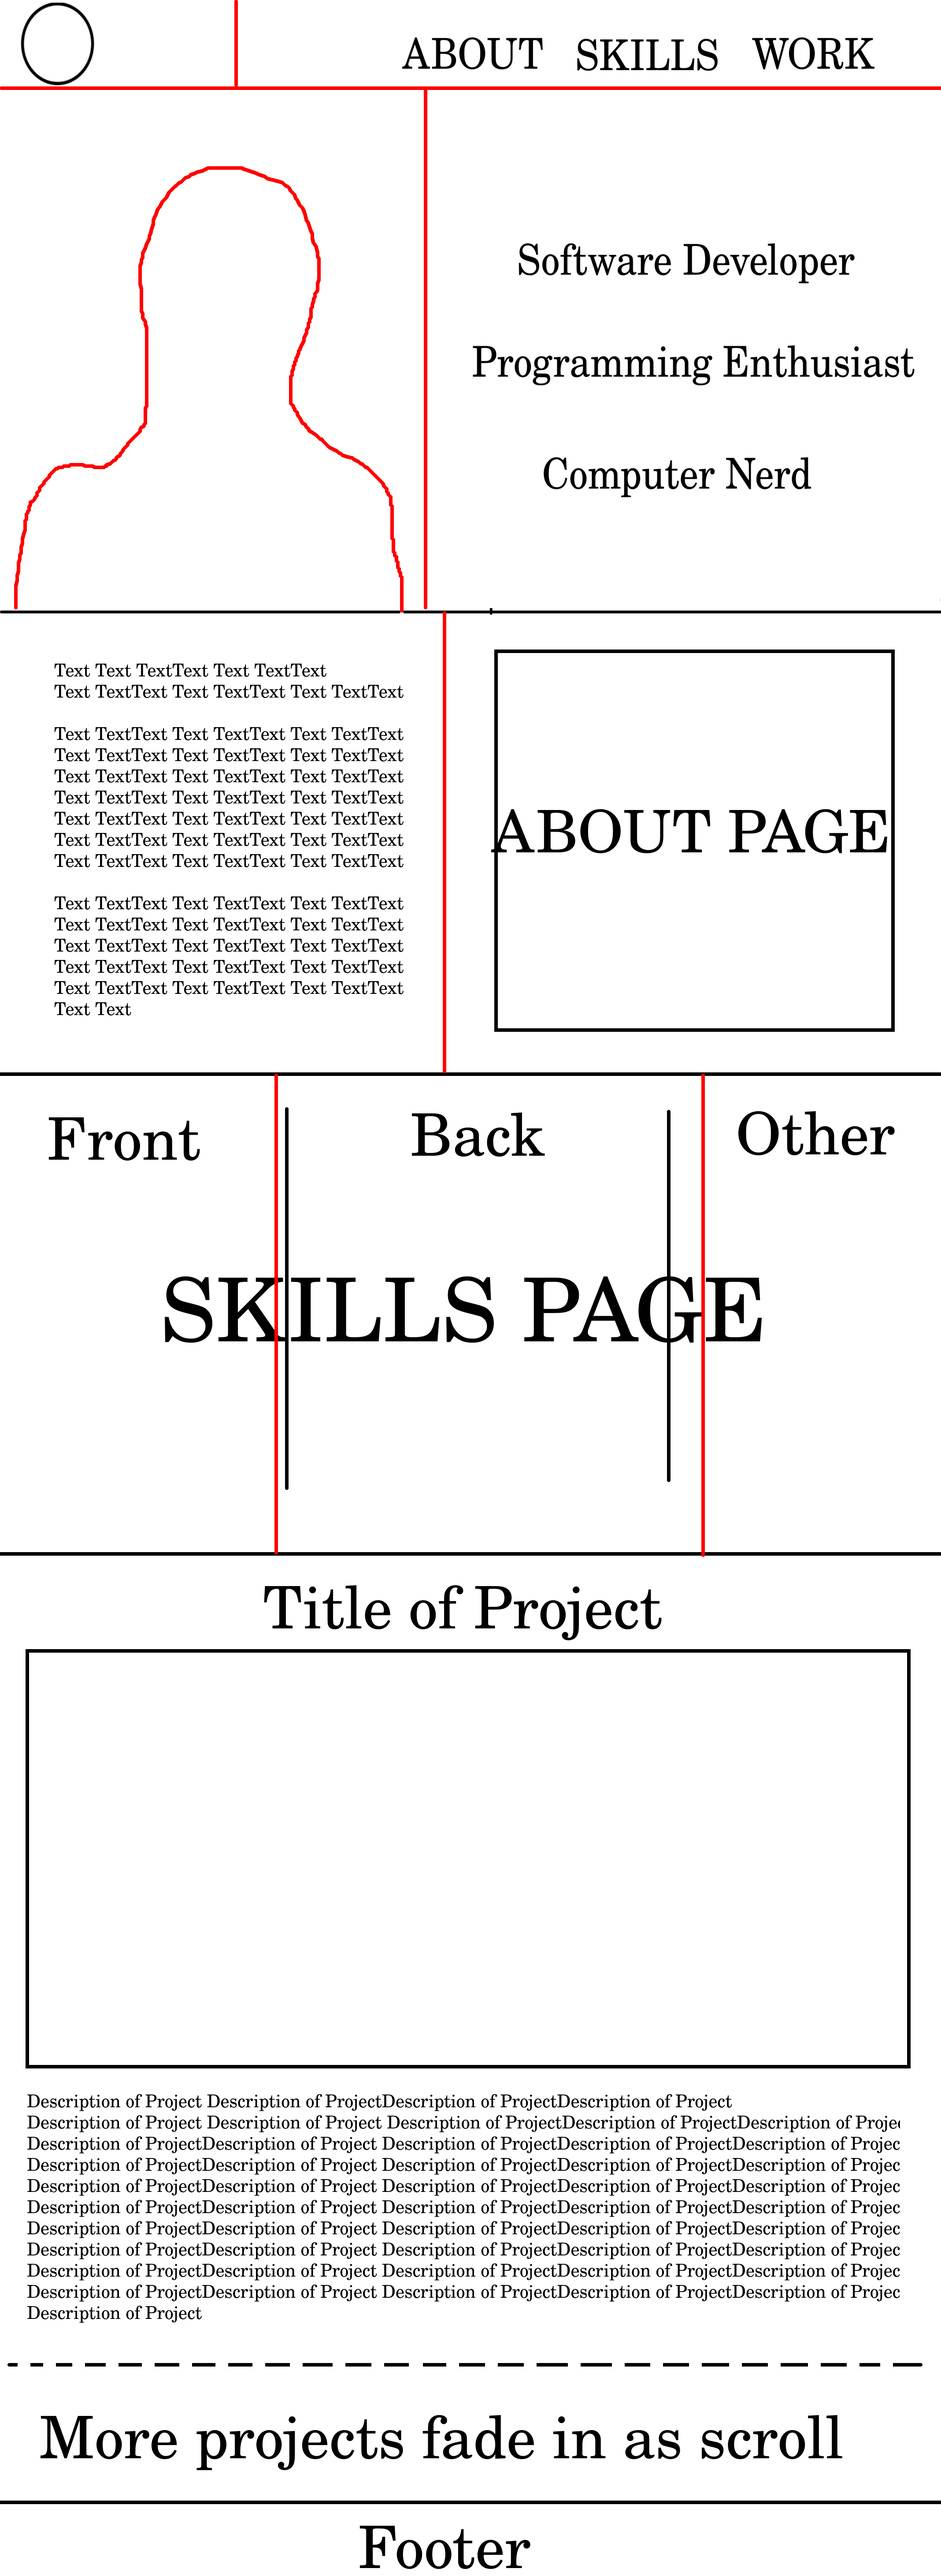
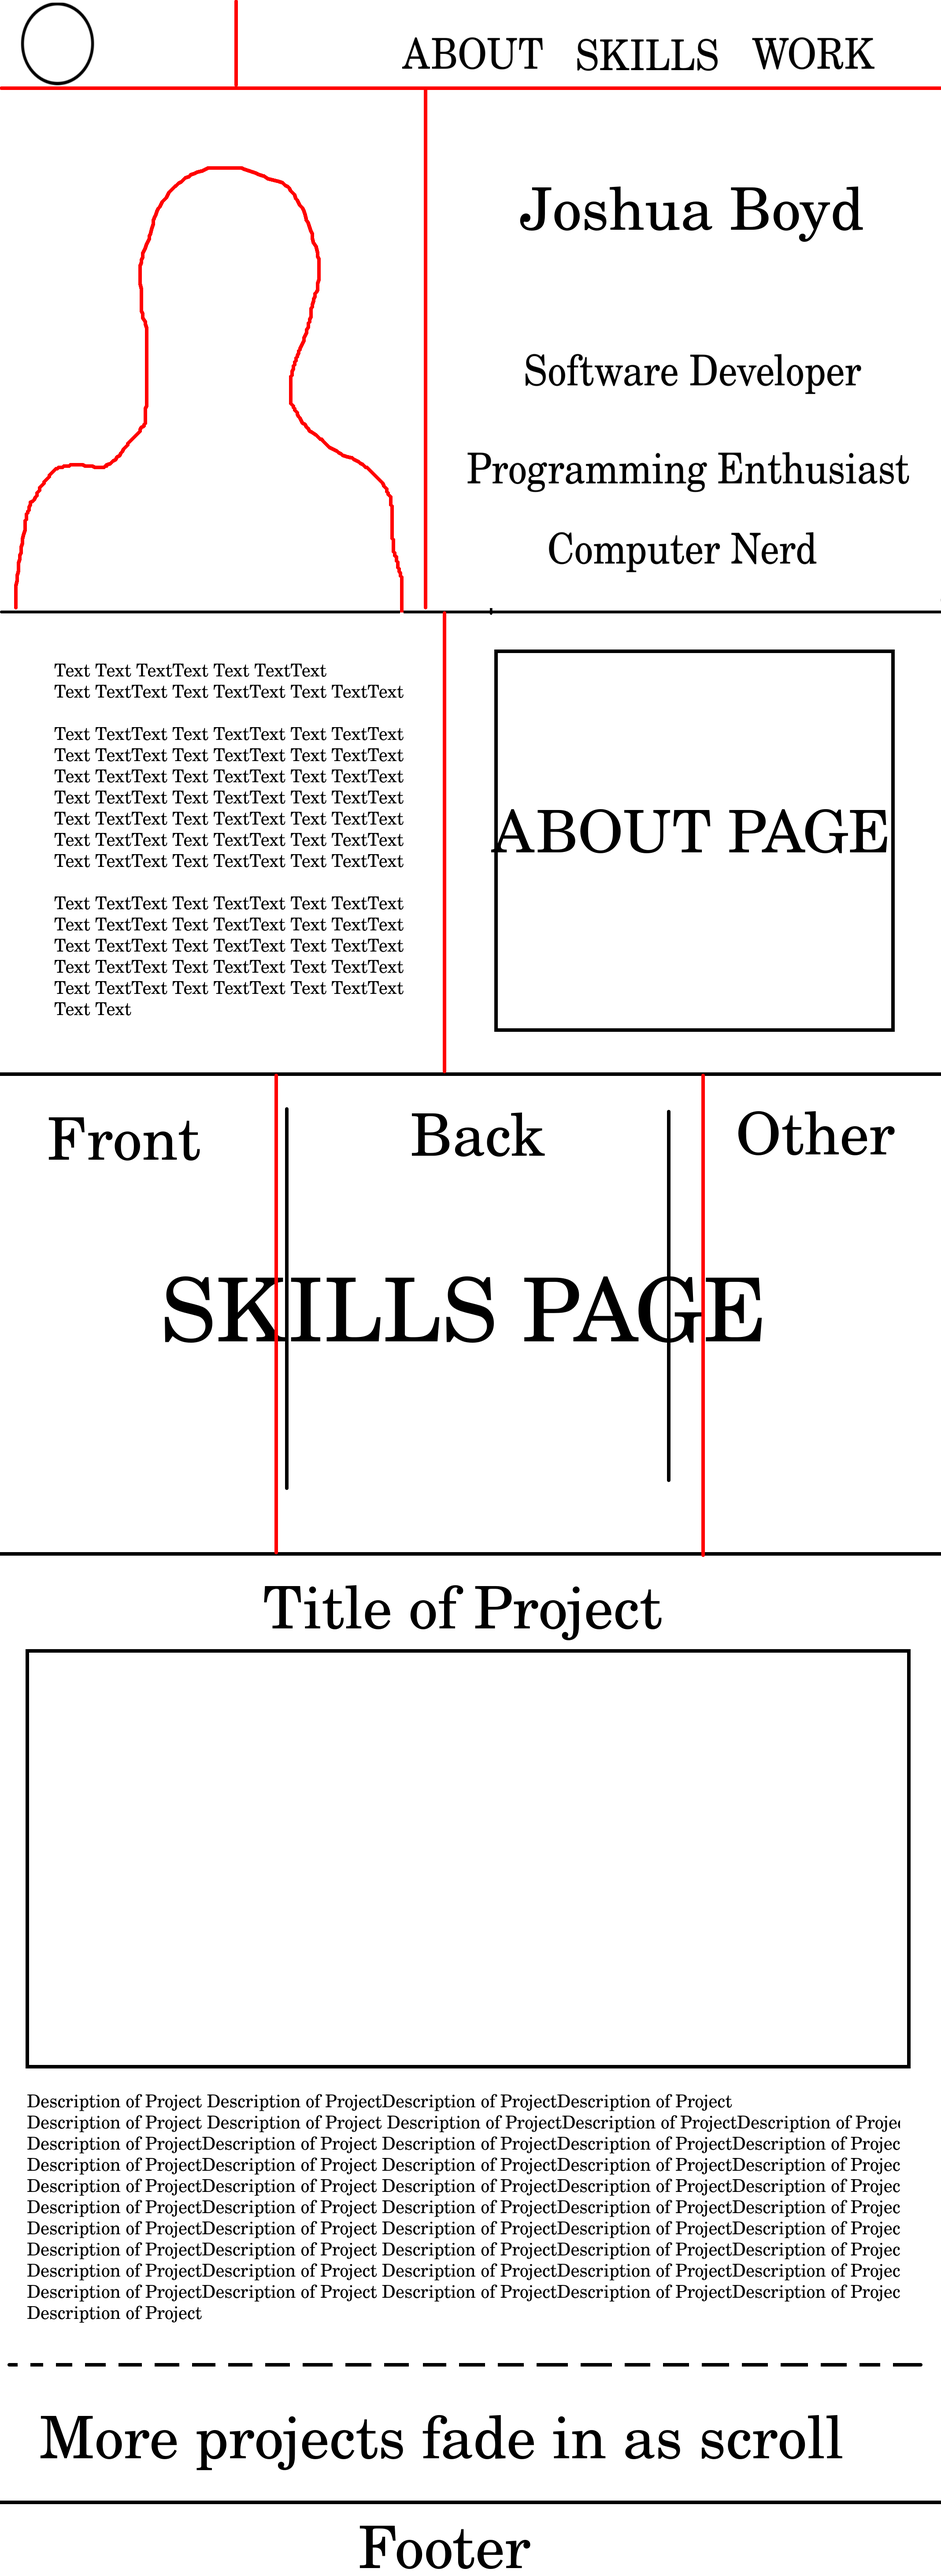
added picture of myself - styled area where personal picture is - set name and headline text/style

Changed region(s): [[0.4944, 0.0623, 0.9579, 0.2181]]

diff --git a/style.css b/style.css
@@ -21,11 +21,10 @@
 body {
 	background-color: #3C3A40;
 	display: grid;
-	grid-template-rows: 1fr 1fr 1fr 1fr 1fr 1fr;
+	grid-template-rows: 1fr 4fr 4fr 4fr 4fr 4fr;
 }	
 
 #navBar {
-	border: 1px dashed red;
 	display: flex;
 	flex-wrap: wrap;
 	justify-content: center;
@@ -33,7 +32,6 @@ body {
 }
 
 #logoCont {
-	border: 1px solid white;
 	flex: 1;
 	display: flex;
 	justify-content: center;
@@ -41,7 +39,6 @@ body {
 }
 
 #navLinkCont {
-	border: 1px dashed yellow;
 	flex: 6;
 	display: flex;
 	justify-content: right;
@@ -51,7 +48,7 @@ body {
 #navLinks {
 	display: flex;
 	gap: 5rem;
-	padding: 2rem;
+	padding: 3rem;
 }
 
 #navLinkCont a {
@@ -59,11 +56,58 @@ body {
 }
 
 #profilePanel {
-	border-bottom: 2px dotted yellow;
+	border: 2px dotted yellow;
+	display: flex;
+	flex-wrap: wrap;
 }
 
+#profilePicCont {
+	flex: 1;
+	display: flex;
+	align-items: center;
+	justify-content: center;
+}
+
+#profilePicCont img {
+	border-radius: 40px;
+	box-shadow: -1px 10px 20px 2px #000;
+}
+
+#headlineNameCont {
+	border: 2px dashed orange;
+	flex: 1;
+	display: flex;
+	flex-flow: column nowrap;
+}
+
+#nameCont {
+	border: 2px solid blue;
+	flex: 1;
+	display: flex;
+	align-items: center;
+	justify-content: center;
+}
+
+#nameCont p {
+	font-size: 80px;
+}
+
+#headlineCont {
+	border: 2px dotted white;
+	flex: 2;
+	display: flex;
+	flex-flow: column nowrap;
+	align-items: center;
+	justify-content: center;
+	gap: 40px;
+}
+
+#headlineCont p {
+	font-size: 40px;
+}
+
+
 #aboutPanel {
-	border-bottom: 1px solid white;
 }	
 
 #skillsPanel {

diff --git a/index.html b/index.html
@@ -7,7 +7,7 @@
 	<body>
 		<div id="navBar">
 			<div id="logoCont">
-				<img src="assets/LogoIdea.png" height="108" widht="42">
+				<a href="#"><img src="assets/LogoIdea.png" height="108" widht="42"></a>
 			</div>
 			<div id="navLinkCont">
 				<div id="navLinks">
@@ -18,9 +18,21 @@
 			</div>
 		</div>
 		<div id="profilePanel">
-			<p>This is the profilePanel</p>
+			<div id="profilePicCont">
+				<img src="/assets/me_zoo_flipped_cropped.png" width="524" height="520">
+			</div>
+			<div id="headlineNameCont">
+				<div id="nameCont">
+					<p>Joshua Boyd</p>
+				</div>
+				<div id="headlineCont">
+					<p>Software Developer</p>
+					<p>Programming Enthusiast</p>
+					<p>Computer Nerd</p>
+				</div>
+			</div>
 		</div>
-		<div id="aboutPanel">
+		<!--<div id="aboutPanel">
 			<p>This is the aboutPanel</p>
 		</div>
 		<div id="skillsPanel">
@@ -31,6 +43,6 @@
 		</div>
 		<div id="footer">
 			<p>This is the footer</p>
-		</div>
+		</div>-->
 	</body>
 </html>
